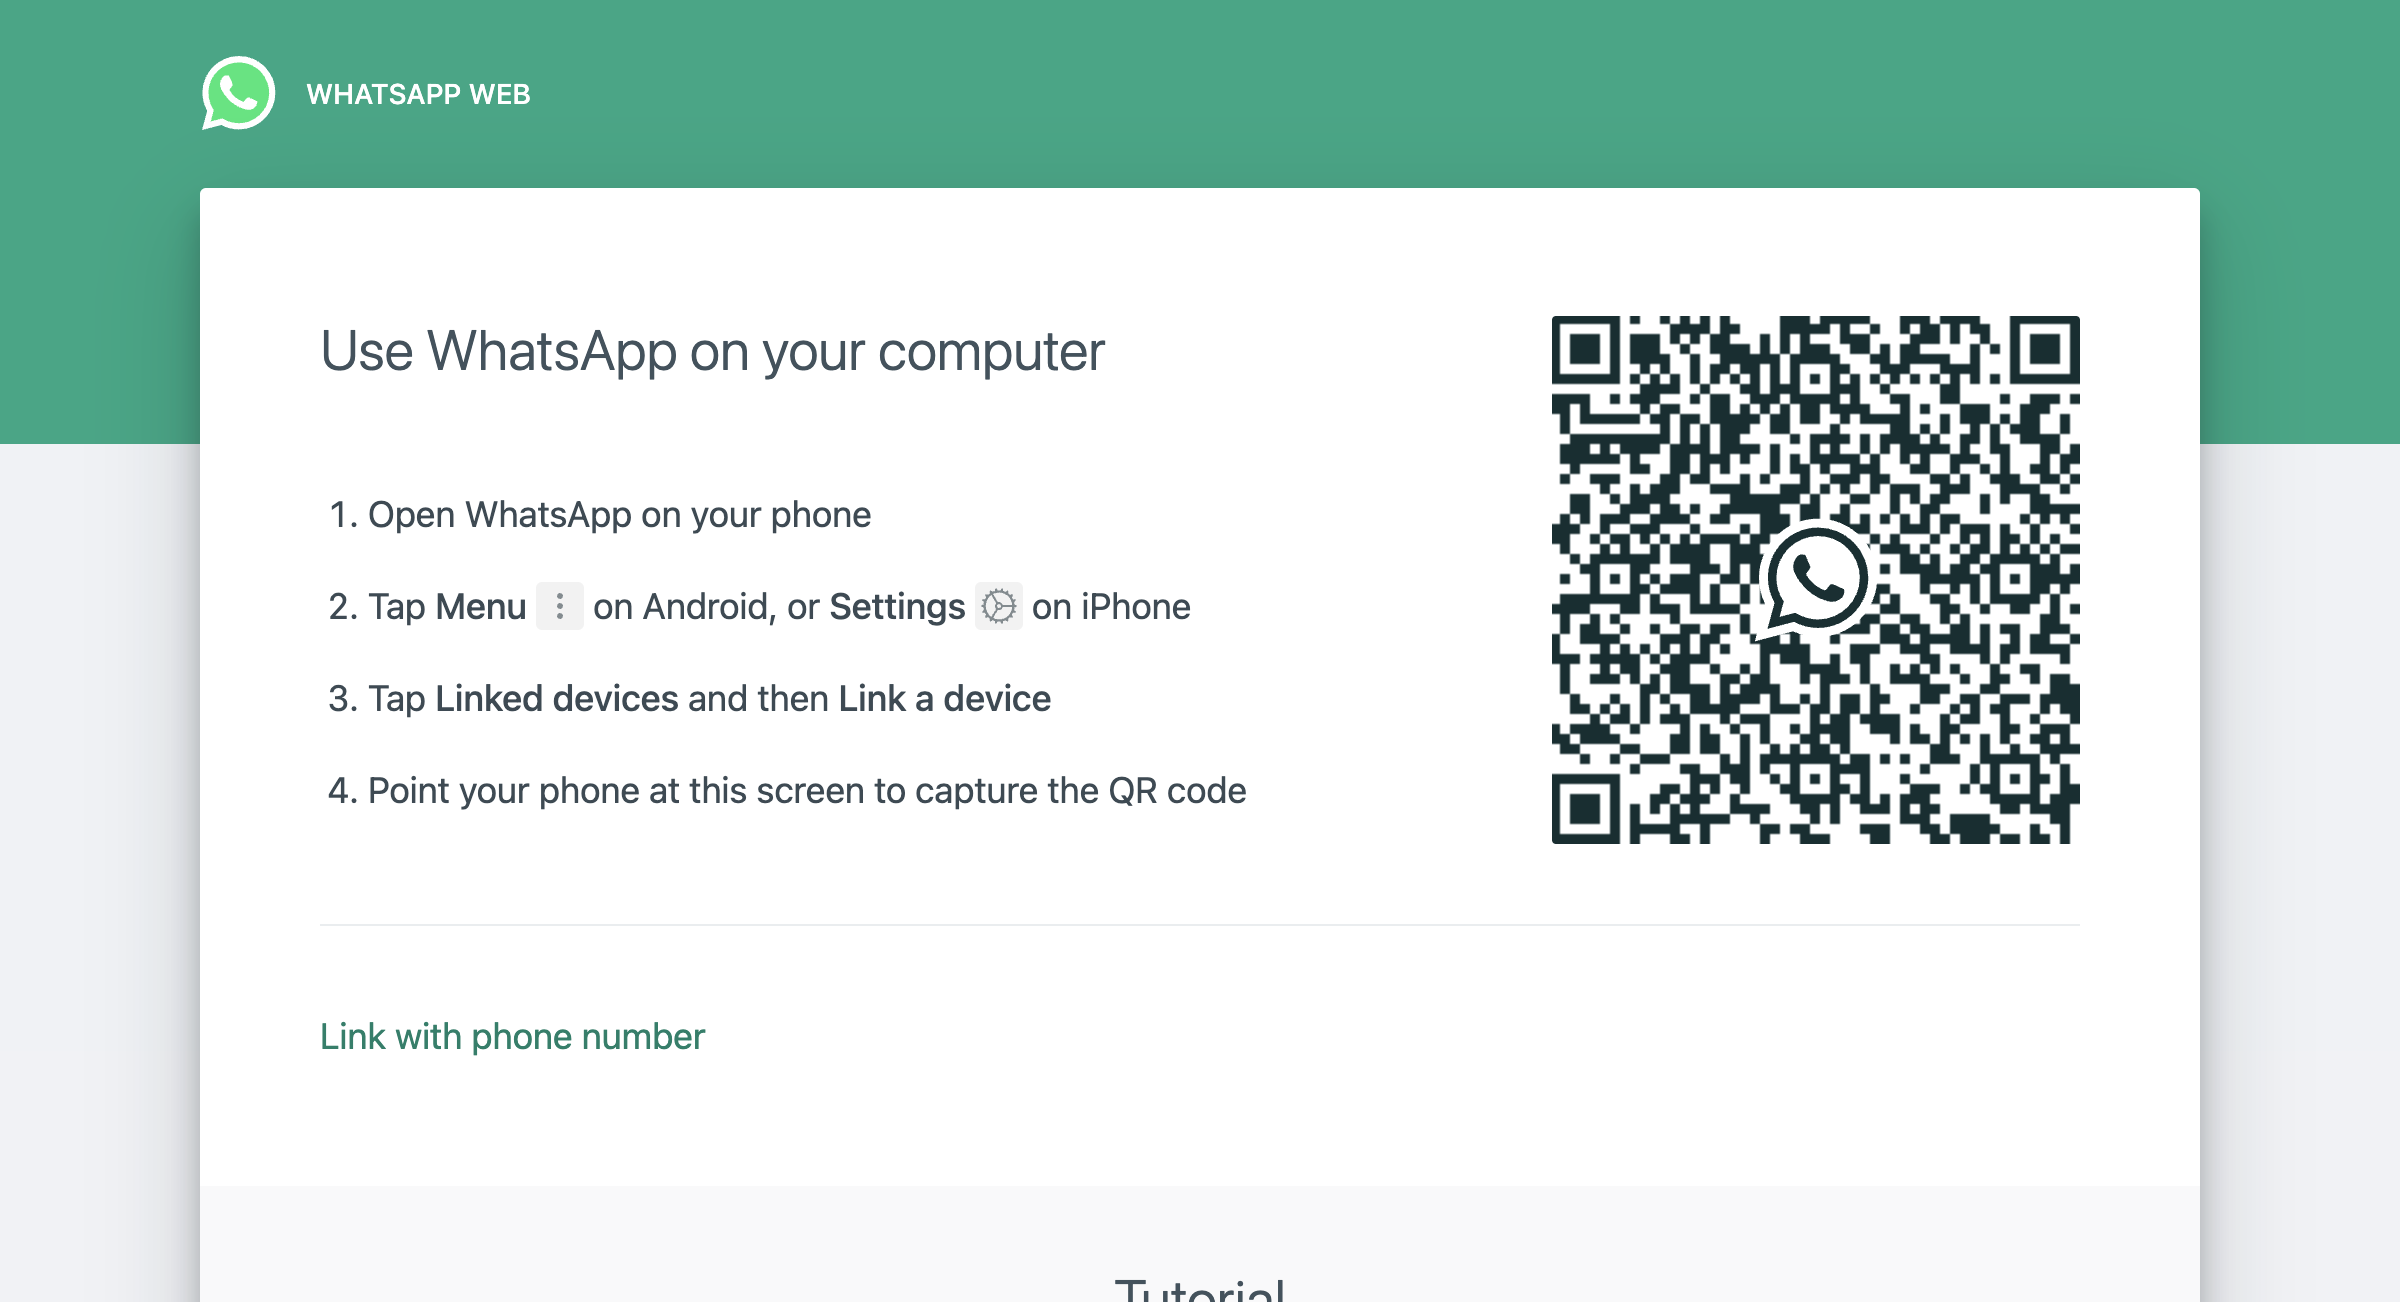
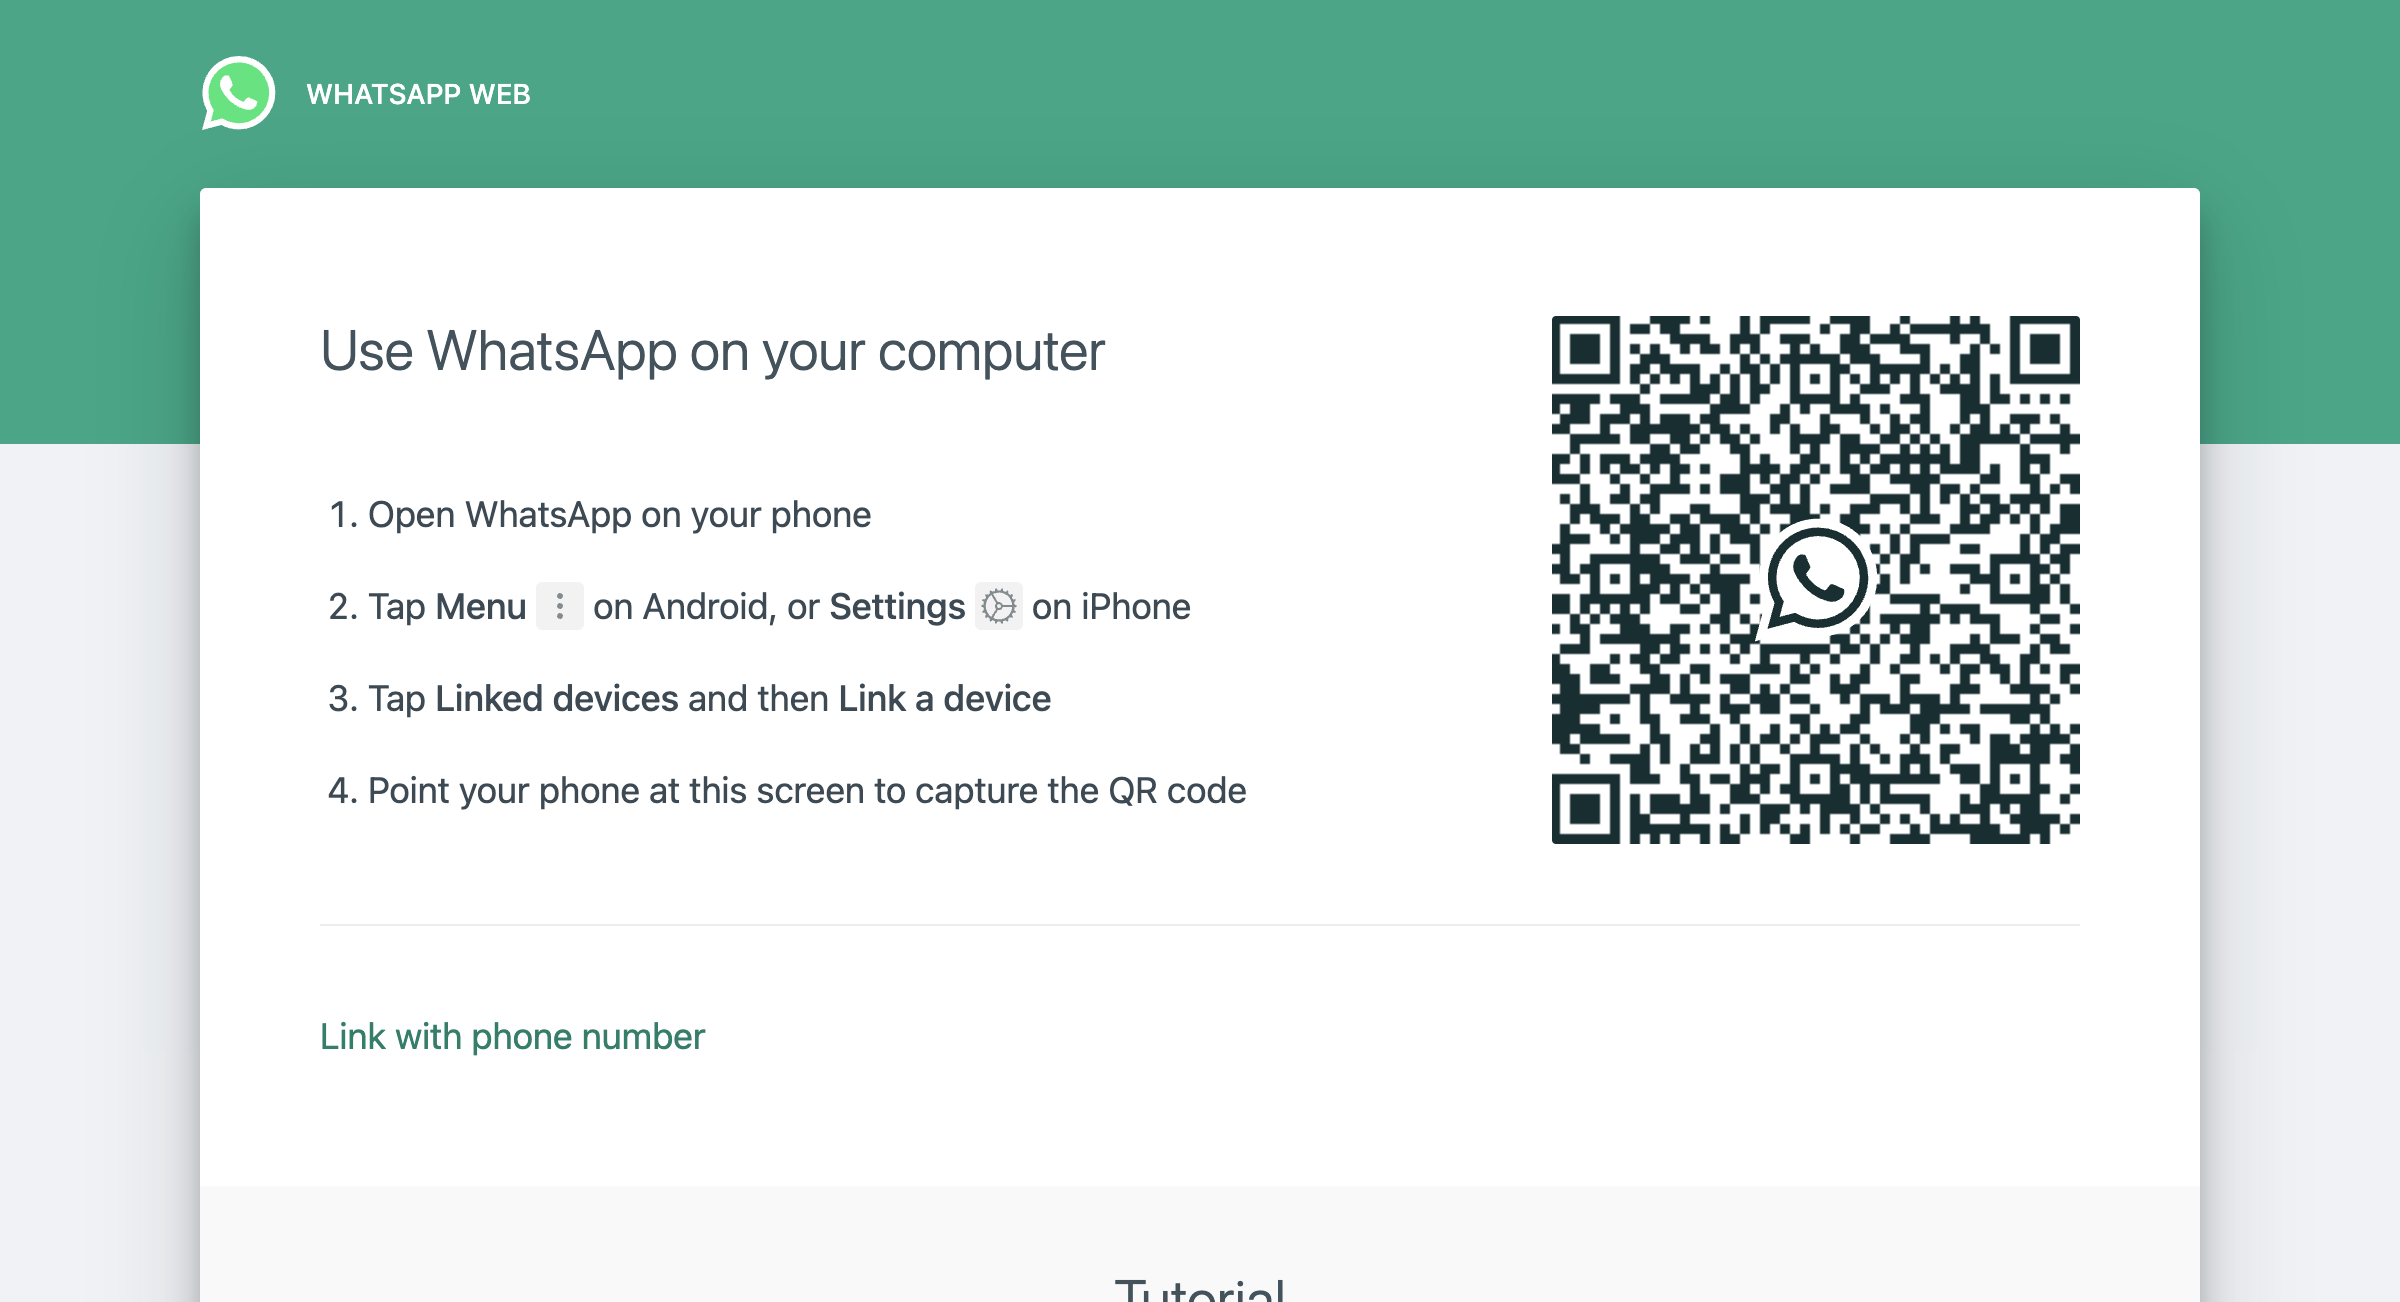
tesT

Changed region(s): [[0.625, 0.2458, 0.875, 0.6452]]

diff --git a/app.py b/app.py
@@ -13,15 +13,15 @@ import os
 
 from apscheduler.schedulers.background import BackgroundScheduler
 app = Flask(__name__)
-scheduler = BackgroundScheduler()
+# scheduler = BackgroundScheduler()
 
 pywp = PyWp()
 
 
-def screenshot_task():
-    result = pywp.take_screenshot_task()
-    if result is True:
-        scheduler.shutdown()
+# def screenshot_task():
+#     result = pywp.take_screenshot_task()
+#     if result is True:
+#         scheduler.shutdown()
 
 
 SESSION_TYPE = 'cachelib'
@@ -248,7 +248,7 @@ def extract_contacts(file):
 
 if __name__ == "__main__":
     # Adjust the interval as needed
-    if not scheduler.running:
-        scheduler.start()
-        scheduler.add_job(screenshot_task, 'interval', seconds=10)
+    # if not scheduler.running:
+    #     scheduler.start()
+    #     scheduler.add_job(screenshot_task, 'interval', seconds=5)
     app.run(debug=True, host='0.0.0.0')

diff --git a/PyWp/whats.py b/PyWp/whats.py
@@ -148,7 +148,6 @@ class PyWp:
         if has_session is True:
             return True
         if not has_session:
-            # time.sleep(6)  # Adjust this wait time as needed
             # Navigate up one level from the current script location, then into the 'static' directory
             screenshot_path = os.path.join(os.path.dirname(
                 os.path.abspath(__file__)), '..', 'static', 'screenshot.png')
